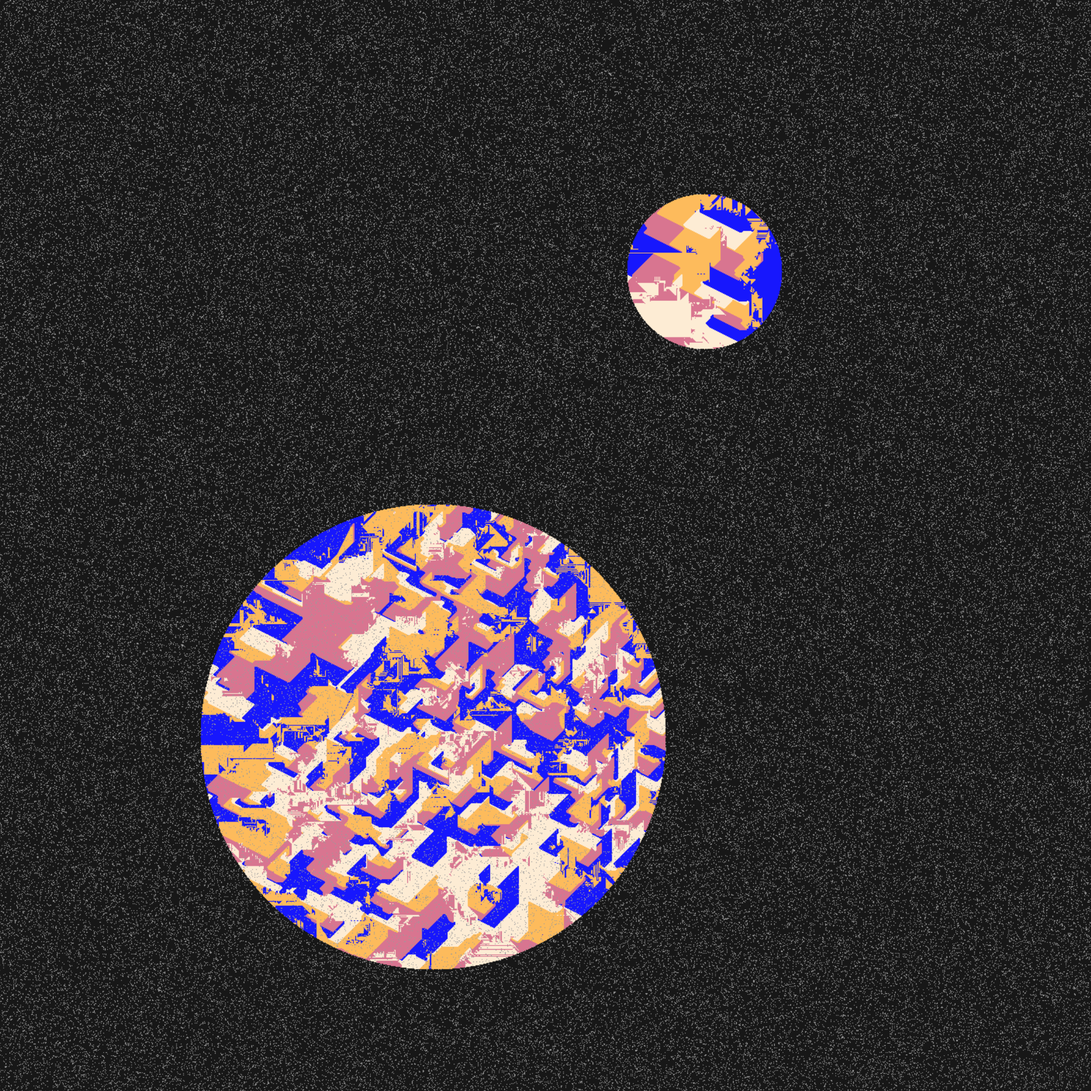
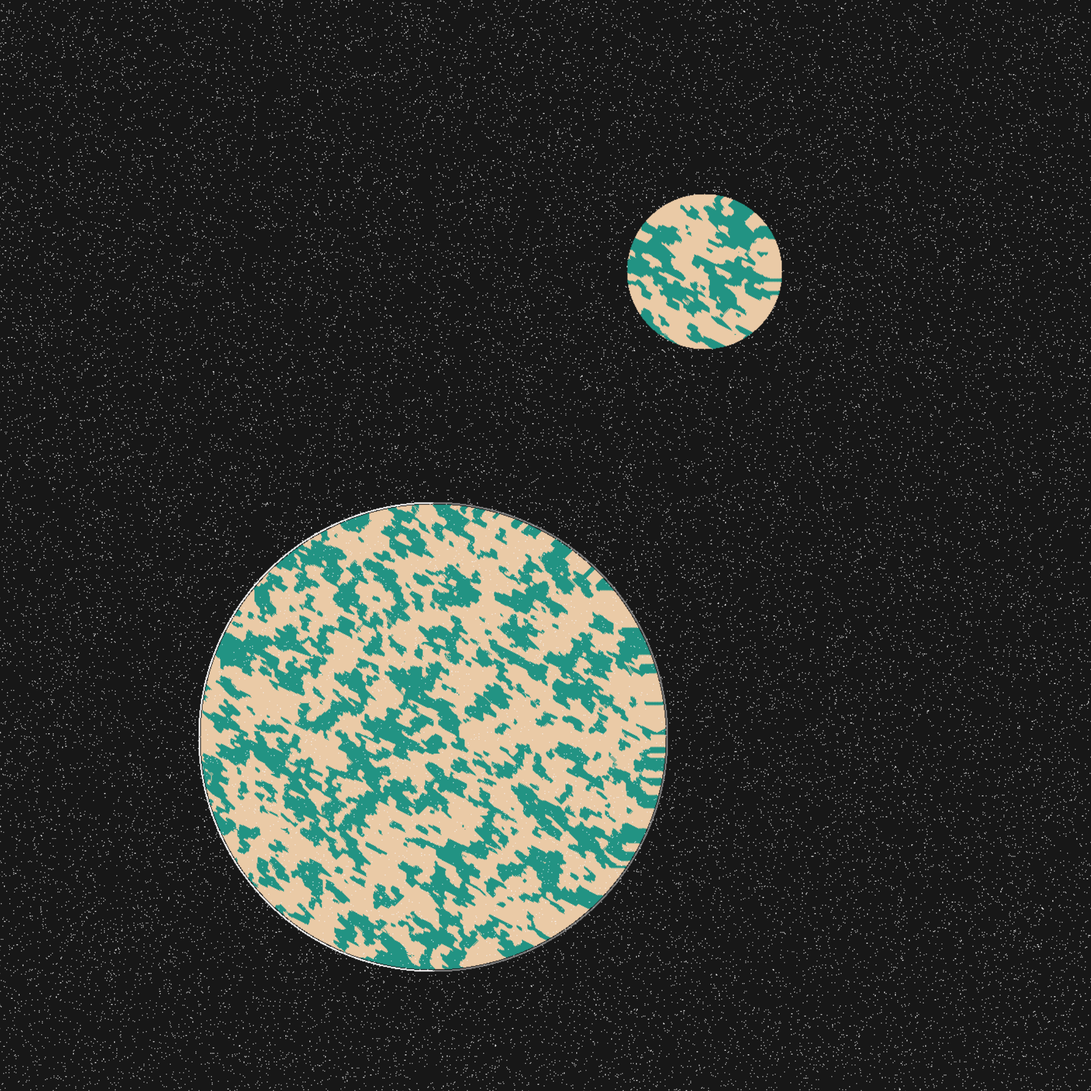
Update

diff --git a/src/paint_planet.cpp b/src/paint_planet.cpp
@@ -57,7 +57,6 @@ arma::mat iterate_planet(arma::mat X,
     }
   }
   // Fill the circle
-  arma::mat X_ref = X;
   for (int i = 0; i < iterations; i++) {
     for (int ii = 0; ii < xcircle.size(); ii++) {
       int xpoint = xcircle[ii];
@@ -70,14 +69,14 @@ arma::mat iterate_planet(arma::mat X,
 		}
         //int newlevel = ((level + 1) % (ncolors - 1)) + 3; // New level can be 3 to ncolors
         int higherlevels = 0;
-        if (X_ref(ypoint - 1, xpoint) == newlevel)     higherlevels++;
-        if (X_ref(ypoint + 1, xpoint) == newlevel)     higherlevels++;
-        if (X_ref(ypoint - 1, xpoint - 1) == newlevel) higherlevels++;
-        if (X_ref(ypoint, xpoint - 1) == newlevel)     higherlevels++;
-        if (X_ref(ypoint + 1, xpoint - 1) == newlevel) higherlevels++;
-        if (X_ref(ypoint - 1, xpoint + 1) == newlevel) higherlevels++;
-        if (X_ref(ypoint, xpoint + 1) == newlevel)     higherlevels++;
-        if (X_ref(ypoint + 1, xpoint + 1) == newlevel) higherlevels++;
+        if (X(ypoint - 1, xpoint) == newlevel)     higherlevels++;
+        if (X(ypoint + 1, xpoint) == newlevel)     higherlevels++;
+        if (X(ypoint - 1, xpoint - 1) == newlevel) higherlevels++;
+        if (X(ypoint, xpoint - 1) == newlevel)     higherlevels++;
+        if (X(ypoint + 1, xpoint - 1) == newlevel) higherlevels++;
+        if (X(ypoint - 1, xpoint + 1) == newlevel) higherlevels++;
+        if (X(ypoint, xpoint + 1) == newlevel)     higherlevels++;
+        if (X(ypoint + 1, xpoint + 1) == newlevel) higherlevels++;
         if (higherlevels >= threshold) {
           X(ypoint, xpoint) = newlevel;
         } else {
@@ -85,7 +84,6 @@ arma::mat iterate_planet(arma::mat X,
         }
       }
     }
-	X_ref = X;
   }
   return X;
 };
